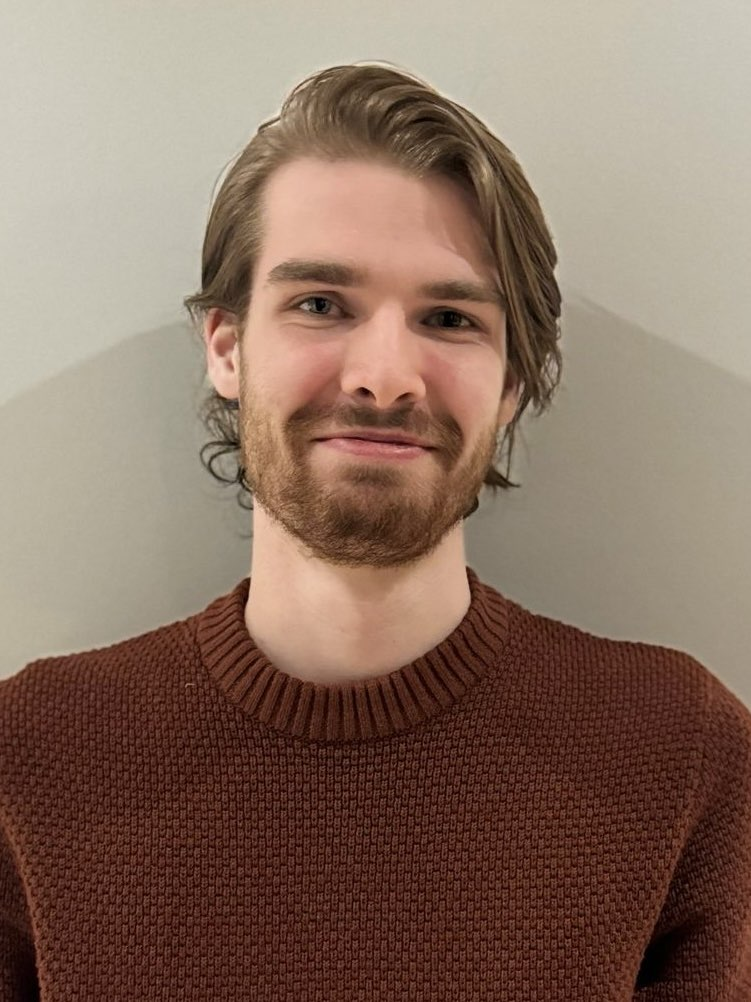
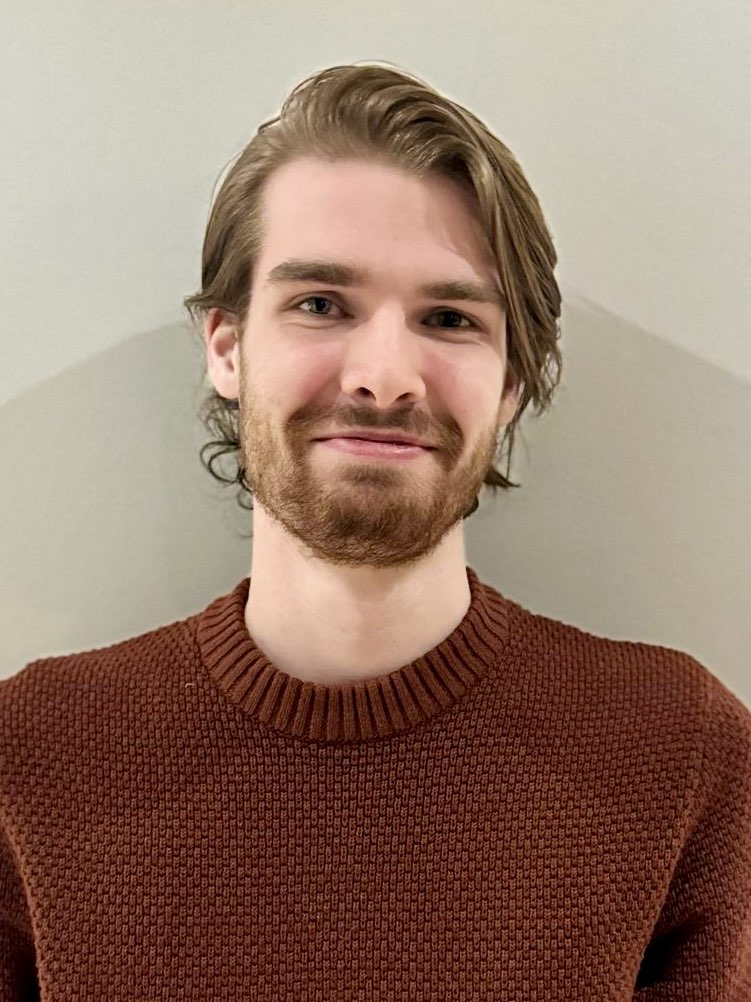
fix: Corrected inconsistent rule thickness, changed title, and added Github links.
Also put brighter photo.

diff --git a/index.html b/index.html
@@ -4,29 +4,30 @@
     <meta charset="UTF-8" />
     <link rel="stylesheet" href="/src/style.css" />
     <meta name="viewport" content="width=device-width, initial-scale=1.0" />
-    <title>Test</title>
+    <title>Ben Davis - Homepage</title>
   </head>
   <body>
     <canvas id="canvas"></canvas>
 
-      <div class="bg">
+      <div class="backdrop">
         <h1>Ben Davis</h1>
 
-        <p style="margin: 0; text-align: center; color: grey; text-indent: 0"><a href="mailto:benjamin.davis2@mail.mcgill.ca">Email</a> &nbsp;<b>&#183;</b>&nbsp; Github</p>
+        <p style="margin: 0; text-align: center; color: grey; text-indent: 0"><a href="mailto:benjamin.davis2@mail.mcgill.ca">Email</a> &nbsp;<b>&#183;</b>&nbsp; <a href="https://github.com/BenJDavis10">Github</a></p>
 
         <div class="bio_container">
           <div class="bio">
-            <p>
-              I'm a computer science PhD Student studying at McGill University under <a href="https://www.cs.mcgill.ca/~robere/">Robert Robere.</a> My main area of interest is computational complexity, mostly proof complexity, but I also have a variety of passing interests in other areas of TCS and computer science more broadly.
+            <p style="margin: 0">
+              I'm a computer science PhD student studying at McGill University under <a href="https://www.cs.mcgill.ca/~robere/">Robert Robere.</a> My main area of interest is computational complexity, mostly proof complexity, but I also have a variety of passing interests in other areas of TCS and computer science more broadly.
             </p>
           </div>
 
           <div class="portrait">
-            <img src="/portrait.jpg" alt="Portrait" />
+            <img class="portrait" src="/portrait.jpg" alt="Portrait" />
+            <p style="font-size: 10pt; margin: 0 0 0 0; text-indent: 1em">The last photo I was cornered into.</p>
           </div>
         </div>
 
-        <hr>
+        <div class="hrule"></div>
 
         <h2>Papers</h2>
 
@@ -44,7 +45,7 @@
           </li>
         </ul>
 
-        <hr>
+        <div class="hrule"></div>
 
         <h2>Random Notes</h2>
 
@@ -52,9 +53,9 @@
           I'll add some of my old notes here once I have time to polish them up.
         </p>
 
-        <hr class="foot_rule">
+        <div class="foot_rule"></div>
 
-        <p style="font-size: 10pt">The background is a live cellular automaton simulation, rendered with WebGL! See the source code <a href="test">here.</a> </p>
+        <p style="font-size: 10pt">The background is a live cellular automaton simulation, rendered with WebGL! See the source code <a href="https://github.com/BenJDavis10/cellular-ts">here.</a> </p>
       </div>
 
       <div style="height: 300px"></div>

diff --git a/src/main.ts b/src/main.ts
@@ -13,11 +13,11 @@ const ANIM_DURATION = 700;
 
 const canvas = document.querySelector('#canvas')! as HTMLCanvasElement;
 const root = document.querySelector('html')!;
-const bg = document.querySelector('.bg')!;
+const content = document.querySelector('.backdrop')!;
 canvas.width = root.scrollWidth;
 canvas.height = root.scrollHeight;
-const bgWidth = bg.scrollWidth;
-const bgHeight = bg.scrollHeight;
+const contentWidth = content.scrollWidth;
+const contentHeight = content.scrollHeight;
 const gl = canvas.getContext("webgl2")!;
 
 // Configure viewport
@@ -64,7 +64,7 @@ gl.bindBuffer(gl.ELEMENT_ARRAY_BUFFER, EBO);
 // Projection and view transforms
 let height = 13;
 let width = height * canvas.width/canvas.height;
-let offset = (1.0 - (0.5 * bgHeight / canvas.height)) * 2.0 - 1.0;  // Center result on actual content
+let offset = (1.0 - (0.5 * contentHeight / canvas.height)) * 2.0 - 1.0;  // Center result on actual content
 
 let proj = GLM.Mat4.create();
 let transl = GLM.Mat4.create();
@@ -85,8 +85,8 @@ gl.uniformMatrix4fv(projLoc, false, proj);
 gl.uniformMatrix4fv(viewLoc, false, view);
 
 // Initialize grid state
-let gridWidth = Math.ceil(bgWidth / 200);
-let gridHeight = Math.ceil(bgHeight / 200);
+let gridWidth = Math.ceil(contentWidth / 200);
+let gridHeight = Math.ceil(contentHeight / 200);
 if (gridHeight > 2 * gridWidth) gridHeight = gridHeight + 2;
 
 const widthLoc = gl.getUniformLocation(prog, "gridWidth");

diff --git a/src/style.css b/src/style.css
@@ -59,9 +59,9 @@ canvas {
   margin: 0;
 
   opacity: 33%;
- }
+}
 
-.bg {
+div.backdrop {
   position: relative;
   margin: 50px auto auto auto;
   width: 100%;
@@ -77,45 +77,41 @@ canvas {
   padding: 20px 5% 20px 5%;
 }
 
-.bio_container {
-  padding: 0;
+div.bio_container {
+  padding: 20px 0 0 0;
   margin: 0;
 
   display: flex;
   flex-flow: row wrap-reverse;
 }
 
-.bio {
-  padding: 5px;
+div.bio {
+  padding: 5px 0 20px 0;
   width: 0;
   flex-grow: 2;
   min-width: 300px;
 }
 
-.portrait {
-  padding: 30px;
+div.portrait {
+  padding: 10px 30px 0 30px;
   width: 0;
   flex-grow: 1;
   min-width: 200px;
 }
 
-img {
+img.portrait {
   border-radius: 10px;
-  height: 100%;
+  height: 90%;
   width: 100%;
   object-fit: cover;
 }
 
-hr {
-  border: none;
-  height: 3px;
-  background-color: grey;
+div.hrule {
   margin: auto 50px auto 50px;
+  border-bottom: medium solid grey;
 }
 
-.foot_rule {
-  height: 1px;
-  background-color: grey;
-  margin-left: auto;
-  margin-right: 67%;
+div.foot_rule {
+  border-bottom: thin solid grey;
+  margin: auto 67% auto auto;
 }
